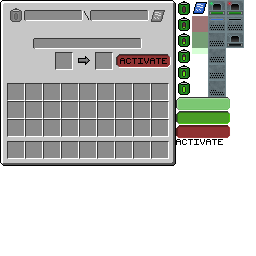
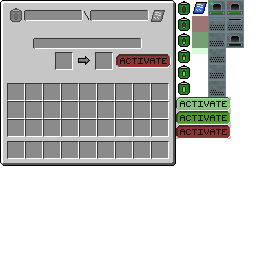
Continued work on replicator overhaul 2

Changed region(s): [[0.6875, 0.375, 0.9062, 0.5625]]

diff --git a/src/main/java/com/nexustools/skytech/GReplicator.java b/src/main/java/com/nexustools/skytech/GReplicator.java
@@ -140,6 +140,8 @@ public class GReplicator extends GuiContainer {
 //        PacketDispatcher.sendPacketToServer(pl); 
 //    }
     
+//    this.mou
+    
     @Override
     protected void mouseClicked(int x, int y, int par3) {
         super.mouseClicked(x, y, par3); //To change body of generated methods, choose Tools | Templates.
@@ -176,10 +178,13 @@ public class GReplicator extends GuiContainer {
         int id =  (uuid >> 16);
         int meta =  (uuid & 0xffff);
         
-        ItemStack is = new ItemStack(Item.itemsList[id], 1);
-        is.setItemDamage(meta);
-        
-        this.ent.setSearchSlotContentsClient(is, uuid);
+        if(id>0){
+            try{
+                ItemStack is = new ItemStack(Item.itemsList[id], 1);
+                is.setItemDamage(meta);
+                this.ent.setSearchSlotContentsClient(is, uuid);
+            }catch(Throwable t){}
+        }
         
     }
 
@@ -262,6 +267,8 @@ public class GReplicator extends GuiContainer {
     long req = 0L;
     int bt = 32;
     
+    boolean mouseDownOnButton = false;
+    
     static final char colorchar = (char)0xA7;
     
     @Override
@@ -296,11 +303,14 @@ public class GReplicator extends GuiContainer {
         req = ent.cost;
         incr = (int) ((euv*6d)/ TEReplicator.MAX_EU);
         drawTexturedRect(x+150, y+8, 192,0,15,16);
-        drawTexturedRect(x+8, y+7, 176,incr*16,16,16);
-        if(ent.enoughEnergyToSynergize()){
-            drawTexturedRect(x+56, y+53, 192,32,16,16);
-        }else
-            drawTexturedRect(x+56, y+53, 192,16,16,16);
+        drawTexturedRect(x+8, y+7, 176,incr*16,16,16); // 176 97
+        if(ent.enoughEnergyToReplicate()){
+            drawTexturedRect(x+116, y+54, 176,97,55,14); // 97 -> 111
+        }
+//        if(ent.enoughEnergyToSynergize()){
+//            drawTexturedRect(x+56, y+53, 192,32,16,16);
+//        }else
+//            drawTexturedRect(x+56, y+53, 192,16,16,16);
 
         mc.fontRenderer.drawString(String.valueOf((long)euv)+"EU", x+26, y+12, 0);
         mc.fontRenderer.drawString(String.valueOf((long)req)+"EU", x+92, y+12, 0);

diff --git a/src/main/java/com/nexustools/skytech/TEReplicator.java b/src/main/java/com/nexustools/skytech/TEReplicator.java
@@ -44,8 +44,12 @@ public class TEReplicator extends TileEntity implements IInventory, ISidedInvent
     
     @Override
     public ItemStack getStackInSlot(int i) {
-        if(i == 0) return output;
-        else return null;
+//        if(i == 0) return output;
+        switch(i){
+            case 0: return output;
+            case 1: return search;
+            default: return null;
+        }
 //        System.out.println("getStackInSlot");
 //        if(i==0)return realinv;
 //        else return null;
@@ -104,12 +108,14 @@ public class TEReplicator extends TileEntity implements IInventory, ISidedInvent
     }
     
     public void setSearchSlotContentsClient(ItemStack is, int uuid){
+        System.out.println("setSearchSlotContentsClient");
         search = is;
         cost = (int) (MAX_EU*ItemNameDatabase.values.get(uuid));
         sync(uuid);
     }
     
     void setSearchSlotContentsServer(int uuid) {
+        System.out.println("setSearchSlotContentsServer");
         int id =  (uuid >> 16);
         int meta =  (uuid & 0xffff);
         search = new ItemStack(Item.itemsList[id],1);
@@ -386,7 +392,7 @@ public class TEReplicator extends TileEntity implements IInventory, ISidedInvent
 
     public int cost = 1000000;
     
-    public boolean enoughEnergyToSynergize() {
+    public boolean enoughEnergyToReplicate() {
         return cost < STORED_EU;
     }
 

diff --git a/src/main/java/com/nexustools/skytech/Trip.java b/src/main/java/com/nexustools/skytech/Trip.java
@@ -23,21 +23,19 @@ public class Trip implements Comparable {
     
     @Override
     public int compareTo(Object o) {
-        System.out.println("COMPARETO");
         Trip t = (Trip)o;
         return (t.x == x && t.y == y && t.z == z)?0:1;
     }
 
     @Override
     public boolean equals(Object o) {
-        System.out.println("EQUALS");
         Trip t = (Trip)o;
         return (t.x == x && t.y == y && t.z == z);
     }
     
     @Override
     public int hashCode() {
-        return x+y+z%Integer.MAX_VALUE-Integer.MAX_VALUE/4+x&y&z+(x/z)+(x/y)+(y/z)+(z/x)+(y/x); // haaaaaax
+        return x+y+z%Integer.MAX_VALUE-Integer.MAX_VALUE/4+x&y&z+(x/(1+z))+(x/(1+y))+(y/(1+z))+(z/(1+x))+(y/(1+x)); // haaaaaax
     }
     
 }

diff --git a/src/main/java/com/nexustools/skytech/ReplicatorNet.java b/src/main/java/com/nexustools/skytech/ReplicatorNet.java
@@ -25,7 +25,7 @@ public class ReplicatorNet implements IPacketHandler {
 
     @Override
     public void onPacketData(INetworkManager manager, Packet250CustomPayload packet, Player player) {
-        System.out.print("PACKET250CUSTOMPAYLOAD!!!!["+packet.data[0]+"] -> ");
+//        System.out.print("PACKET250CUSTOMPAYLOAD!!!!["+packet.data[0]+"] -> ");
         int x, y, z;
         TEReplicator e;
         DataInputStream din = new DataInputStream(new ByteArrayInputStream(packet.data));

diff --git a/src/main/java/com/nexustools/skytech/CReplicator.java b/src/main/java/com/nexustools/skytech/CReplicator.java
@@ -99,7 +99,8 @@ public class CReplicator extends Container {
     public CReplicator(final InventoryPlayer play, final TEReplicator ent){
         this.play = play;
         this.ent = ent;
-        addSlotToContainer(new Slot(ent, 0, 56, 53));
+        addSlotToContainer(new Slot(ent, 0, 96, 53));
+        addSlotToContainer(new Slot(ent, 1, 56, 53));
 //        this.addSlotToContainer(new Slot(ent, 0, 56, 53){
 //        
 //            @Override
